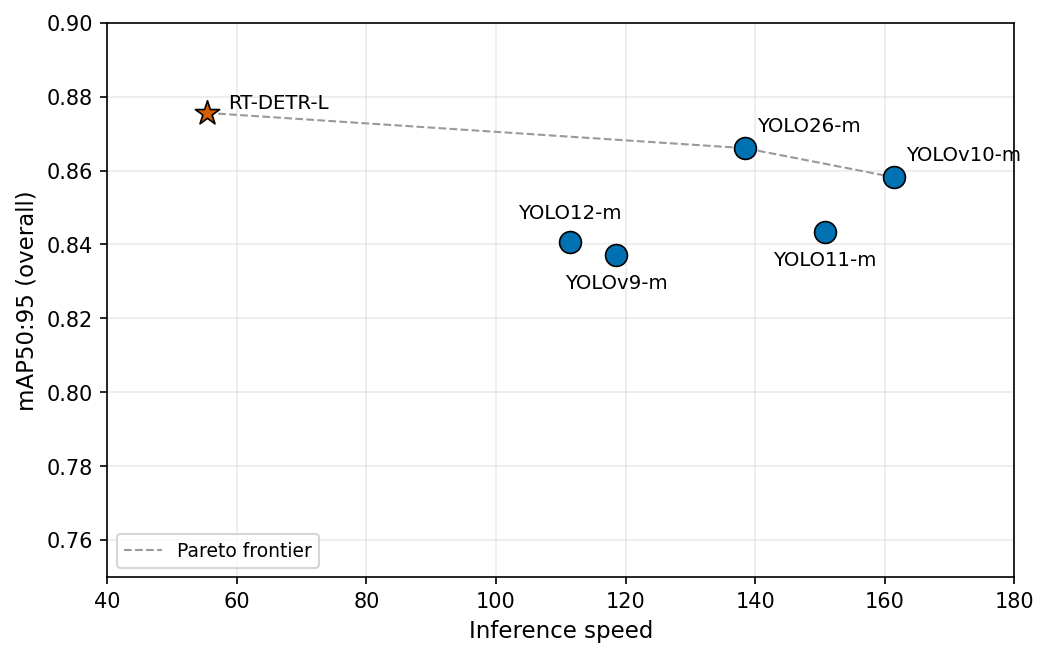
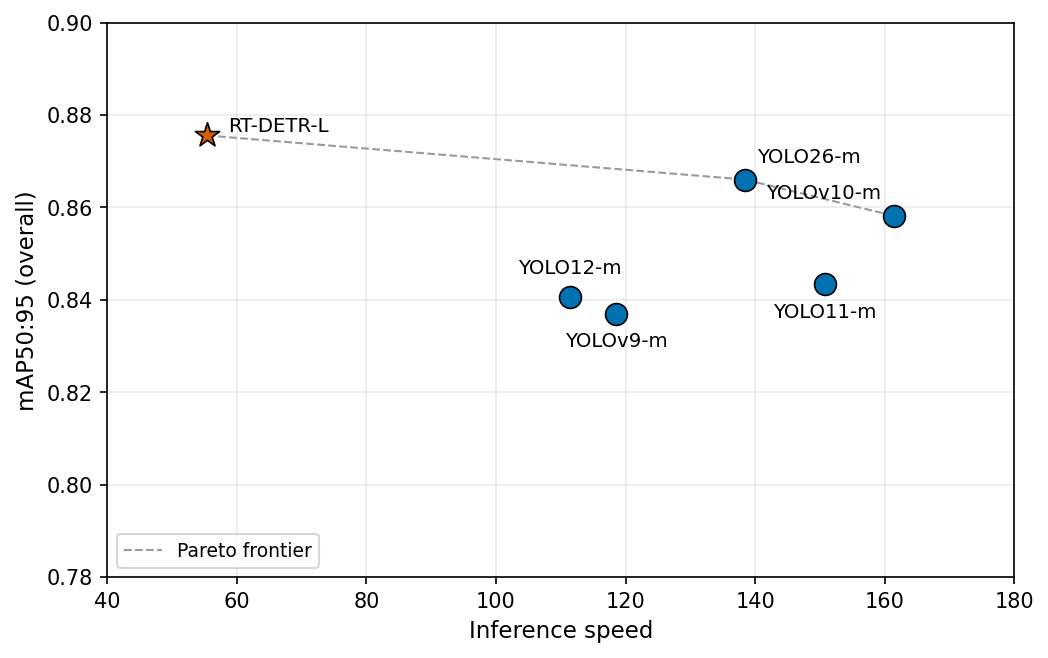
Fix F3: keep YOLOv10-m label inside box; tighten y-axis to 0.78-0.90
YOLOv10-m is the fastest detector (161 FPS), sitting at the right edge
of the accuracy-vs-speed plot; its left-aligned label spilled past the
axis box. Right-align that one label and raise the lower y-limit from
0.75 to 0.78 to better use the vertical range.

diff --git a/scripts/make_paper_figures.py b/scripts/make_paper_figures.py
@@ -470,7 +470,7 @@ def fig_detectors():
     LBL = {
         "rtdetr_l": (10, 2, "left"), "yolo12m": (0, 11, "center"),
         "yolov9m": (0, -16, "center"), "yolo26m": (6, 8, "left"),
-        "yolo11m": (0, -16, "center"), "yolov10m": (6, 8, "left"),
+        "yolo11m": (0, -16, "center"), "yolov10m": (-6, 8, "right"),
     }
     for d, fps, a in pts:
         is_rt = d == "rtdetr_l"
@@ -482,7 +482,7 @@ def fig_detectors():
         ax.annotate(DET_DISPLAY[d], (fps, a), textcoords="offset points",
                     xytext=(dx, dy), ha=ha, fontsize=9.5)
     ax.set_xlim(40, 180)
-    ax.set_ylim(0.75, 0.9)
+    ax.set_ylim(0.78, 0.9)
     ax.set_xlabel("Inference speed")
     ax.set_ylabel("mAP50:95 (overall)")
     ax.legend(loc="lower left", fontsize=9, frameon=True)
